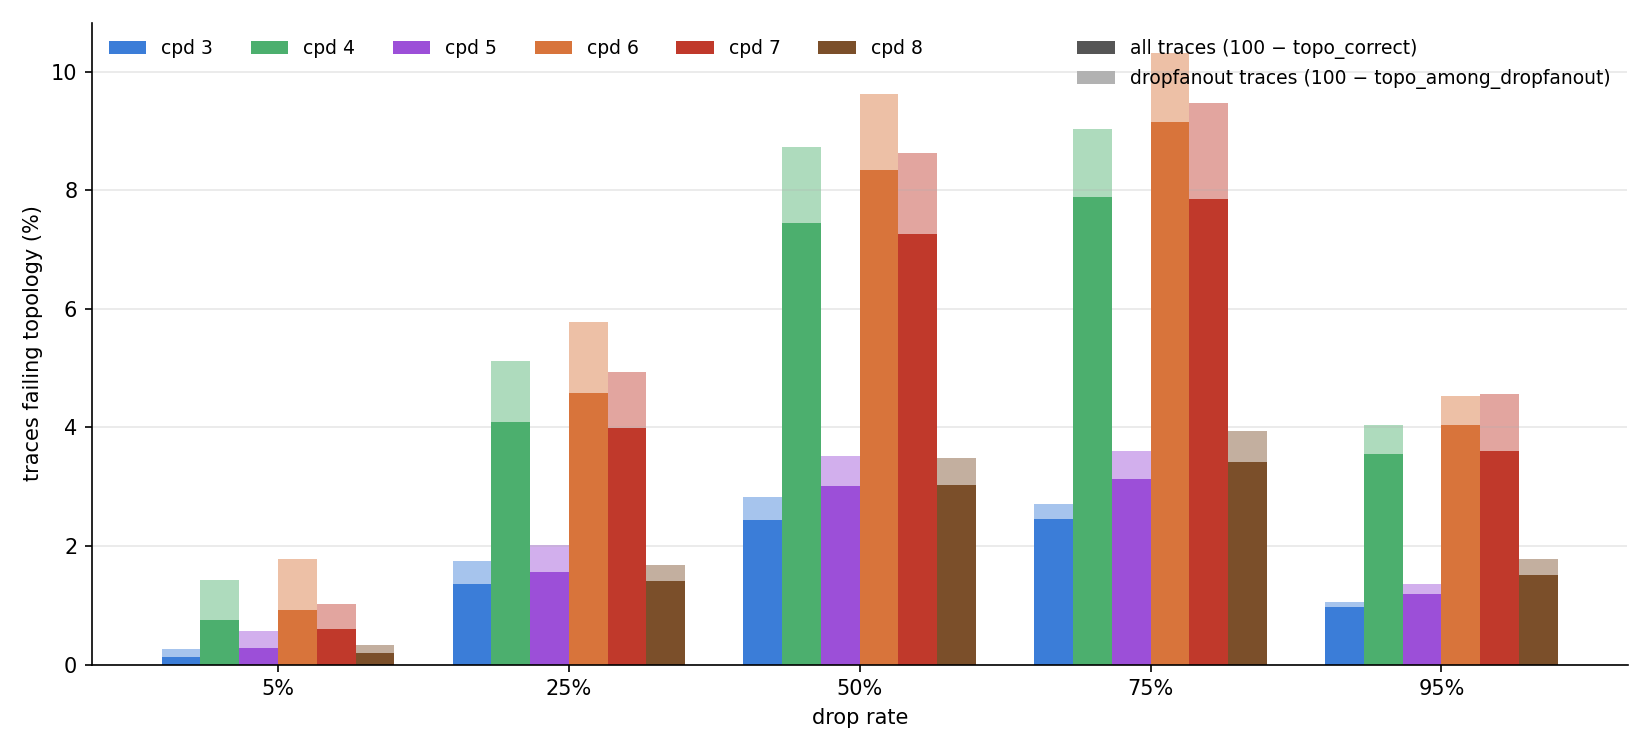
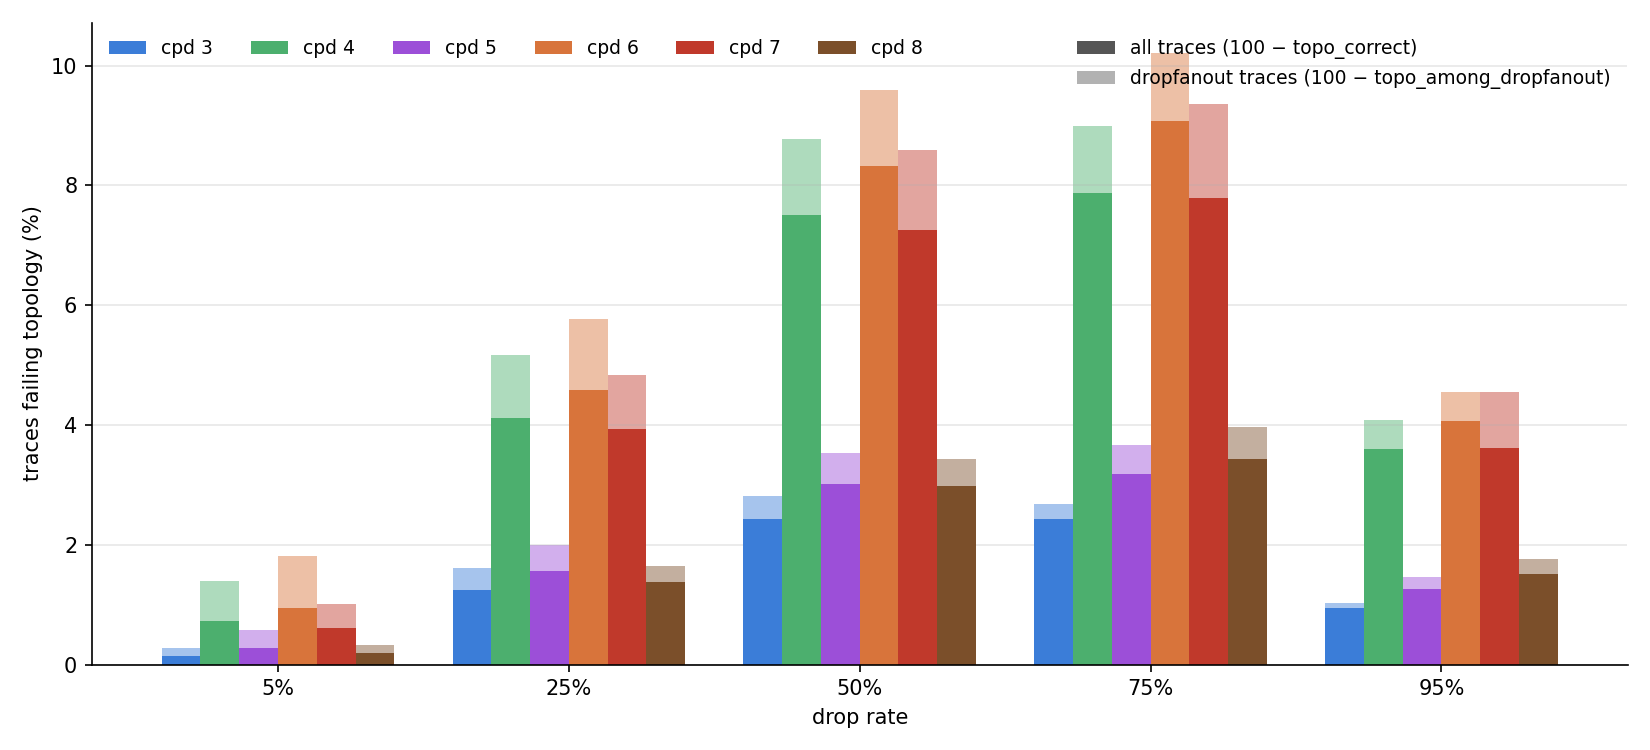
figs: refresh cgp topo-error charts with larger samples (day1 100k, day2 180k)
Update the embedded grids and sample-size weights (100k : 180k) in
plot_cgp_pasted.py and regenerate cgp_topo_error_{day1,day2,merged}.{png,pdf}.
Day-2 180k converges the day-2 number (cpd6/r0.75 = 90.20%); the merged chart is
now (tc1*100k + tc2*180k)/280k. Structure unchanged: cpd2~perfect, U-shape over
drop rate, cpd 4/6/7 the hard cpds.

diff --git a/scripts/plot_cgp_pasted.py b/scripts/plot_cgp_pasted.py
@@ -16,21 +16,21 @@ col = {3: "#3b7dd8", 4: "#4caf6e", 5: "#9c4fd8", 6: "#d8743b", 7: "#c0392b", 8: 
 
 # (topo_correct, topo_dropfanout) per cpd, over rates 0.05/0.25/0.5/0.75/0.95
 DATA = {
- "day1": {  # sample=50000
-   3: [(99.864,99.7331),(98.648,98.2532),(97.558,97.1704),(97.55,97.2865),(99.026,98.9478)],
-   4: [(99.248,98.5735),(95.916,94.8747),(92.556,91.2685),(92.118,90.96),(96.442,95.9517)],
-   5: [(99.726,99.4373),(98.432,97.9879),(96.996,96.4768),(96.866,96.3959),(98.808,98.6351)],
-   6: [(99.08,98.2155),(95.424,94.2239),(91.662,90.3769),(90.846,89.6862),(95.952,95.4634)],
-   7: [(99.392,98.9703),(96.012,95.0599),(92.732,91.3769),(92.142,90.5316),(96.39,95.4441)],
-   8: [(99.804,99.6634),(98.592,98.3143),(96.976,96.5105),(96.578,96.0536),(98.484,98.2139)],
+ "day1": {  # sample=100000
+   3: [(99.8580,99.7217),(98.7500,98.3860),(97.5740,97.1919),(97.5710,97.3118),(99.0510,98.9749)],
+   4: [(99.2660,98.6110),(95.8860,94.8370),(92.4920,91.2311),(92.1330,91.0025),(96.4070,95.9157)],
+   5: [(99.7150,99.4225),(98.4440,98.0042),(96.9820,96.4722),(96.8120,96.3418),(98.7310,98.5433)],
+   6: [(99.0590,98.1897),(95.4240,94.2349),(91.6850,90.4145),(90.9270,89.7924),(95.9360,95.4504)],
+   7: [(99.3900,98.9944),(96.0730,95.1624),(92.7400,91.4153),(92.2170,90.6499),(96.3820,95.4416)],
+   8: [(99.8050,99.6670),(98.6260,98.3568),(97.0190,96.5726),(96.5620,96.0400),(98.4940,98.2320)],
  },
- "day2": {  # sample=90000
-   3: [(99.8044,99.5866),(98.4978,97.9405),(97.2756,96.6859),(97.1911,96.7434),(98.8933,98.7494)],
-   4: [(99.2767,98.5009),(95.6789,94.1339),(92.2956,90.4661),(91.9478,90.2672),(96.3611,95.6259)],
-   5: [(99.6989,99.3893),(98.2989,97.6928),(96.7644,96.0208),(96.5367,95.8518),(98.5733,98.2958)],
-   6: [(99.0322,98.0264),(95.0156,93.3354),(90.8444,88.8356),(90.2156,88.3357),(95.5056,94.5992)],
-   7: [(99.37,98.8585),(96.1011,94.8905),(92.81,91.1852),(92.1044,90.3285),(96.3667,95.4295)],
-   8: [(99.8144,99.6624),(98.6778,98.2945),(97.0089,96.3695),(96.4189,95.69),(98.4122,98.0562)],
+ "day2": {  # sample=180000
+   3: [(99.8250,99.6297),(98.5361,97.9926),(97.3083,96.7225),(97.2050,96.7587),(98.8822,98.7361)],
+   4: [(99.2506,98.4691),(95.6756,94.1501),(92.3561,90.5366),(91.9039,90.2176),(96.3222,95.5688)],
+   5: [(99.7139,99.4164),(98.2617,97.6369),(96.7500,95.9973),(96.5544,95.8795),(98.5794,98.3023)],
+   6: [(99.0656,98.1037),(95.0294,93.3679),(90.8122,88.8033),(90.2011,88.3277),(95.4461,94.5409)],
+   7: [(99.3856,98.8926),(96.1039,94.9056),(92.7044,91.0618),(92.1306,90.3692),(96.4017,95.4789)],
+   8: [(99.8089,99.6537),(98.6628,98.2747),(96.9950,96.3529),(96.4039,95.6747),(98.4361,98.0878)],
  },
 }
 
@@ -39,7 +39,7 @@ DATA = {
 # topo_correct is over ALL traces, so (tc1*50k + tc2*90k)/140k is exact; the
 # dropfanout fractions are near-identical across days, so the same weighting is
 # right for topo_dropfanout to within noise.
-W = {"day1": 50000, "day2": 90000}
+W = {"day1": 100000, "day2": 180000}
 _tot = W["day1"] + W["day2"]
 DATA["merged"] = {
     c: [((DATA["day1"][c][i][0] * W["day1"] + DATA["day2"][c][i][0] * W["day2"]) / _tot,